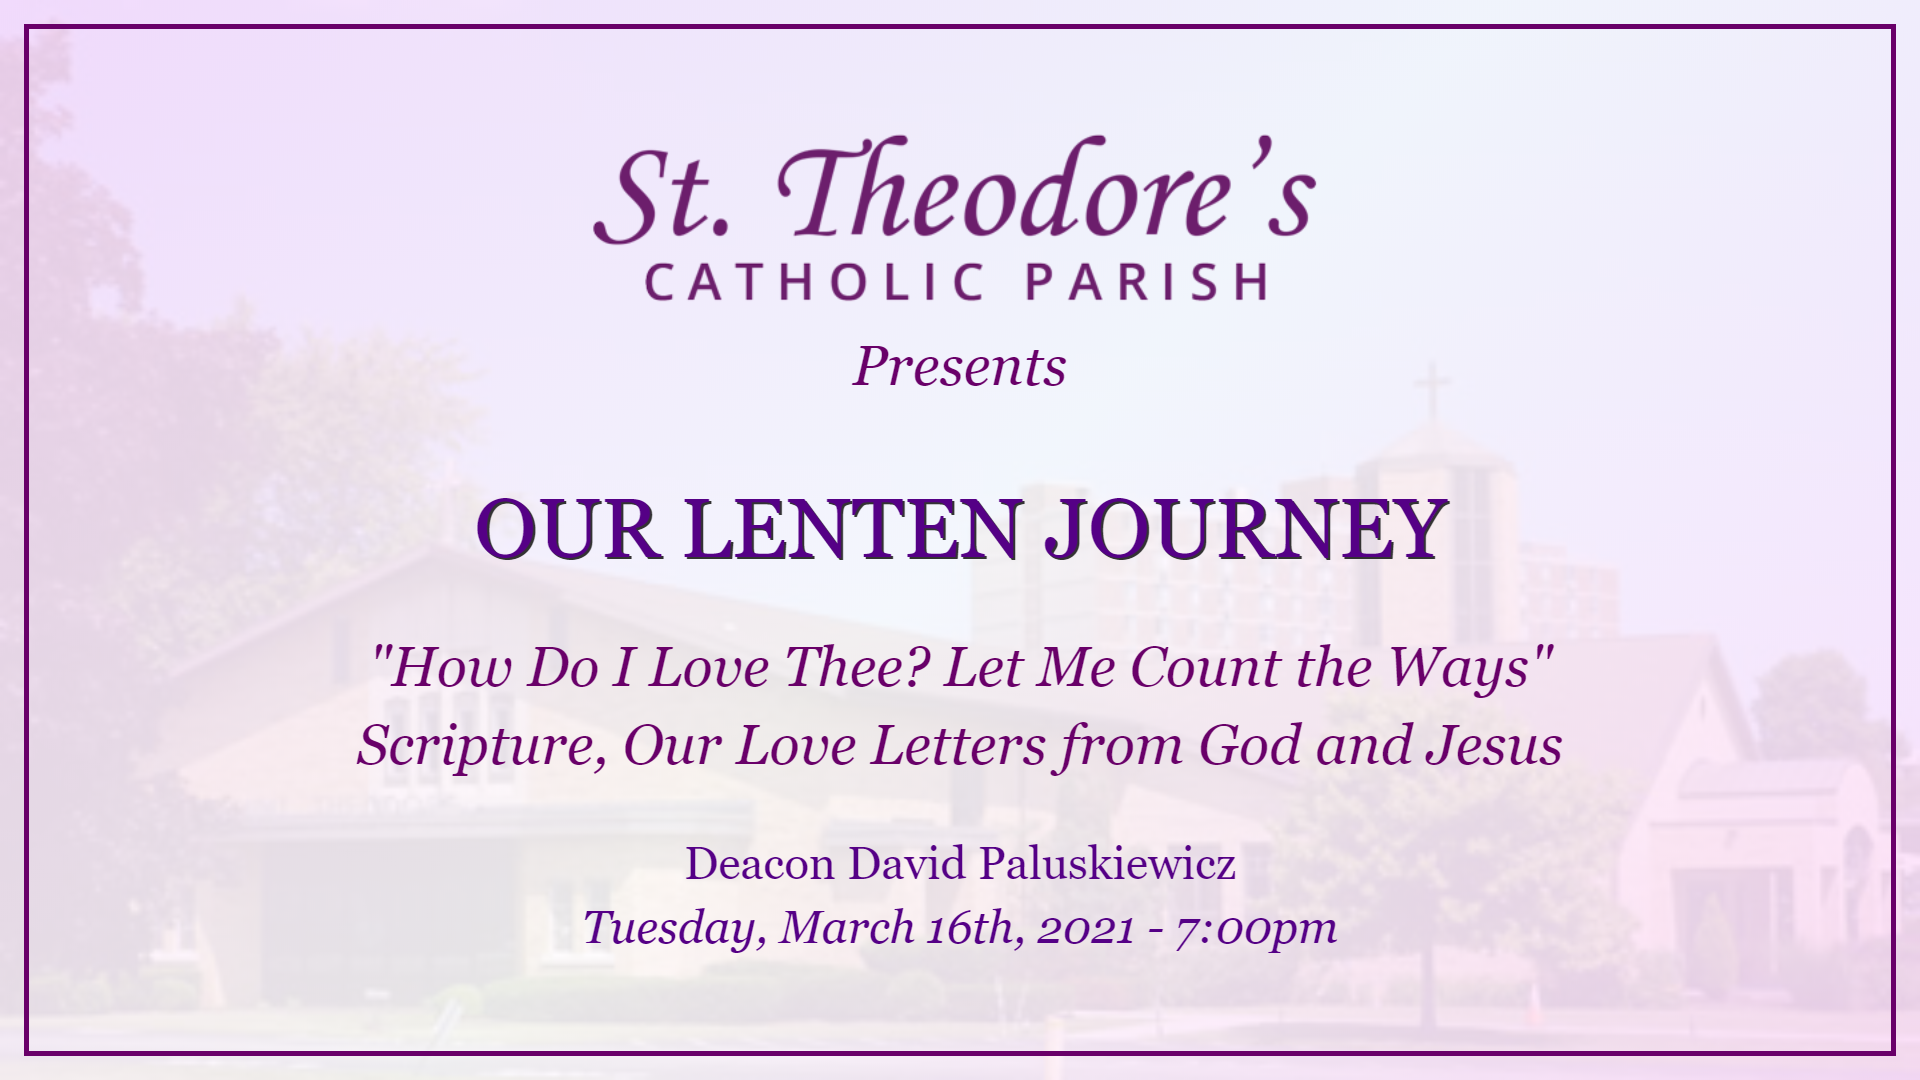
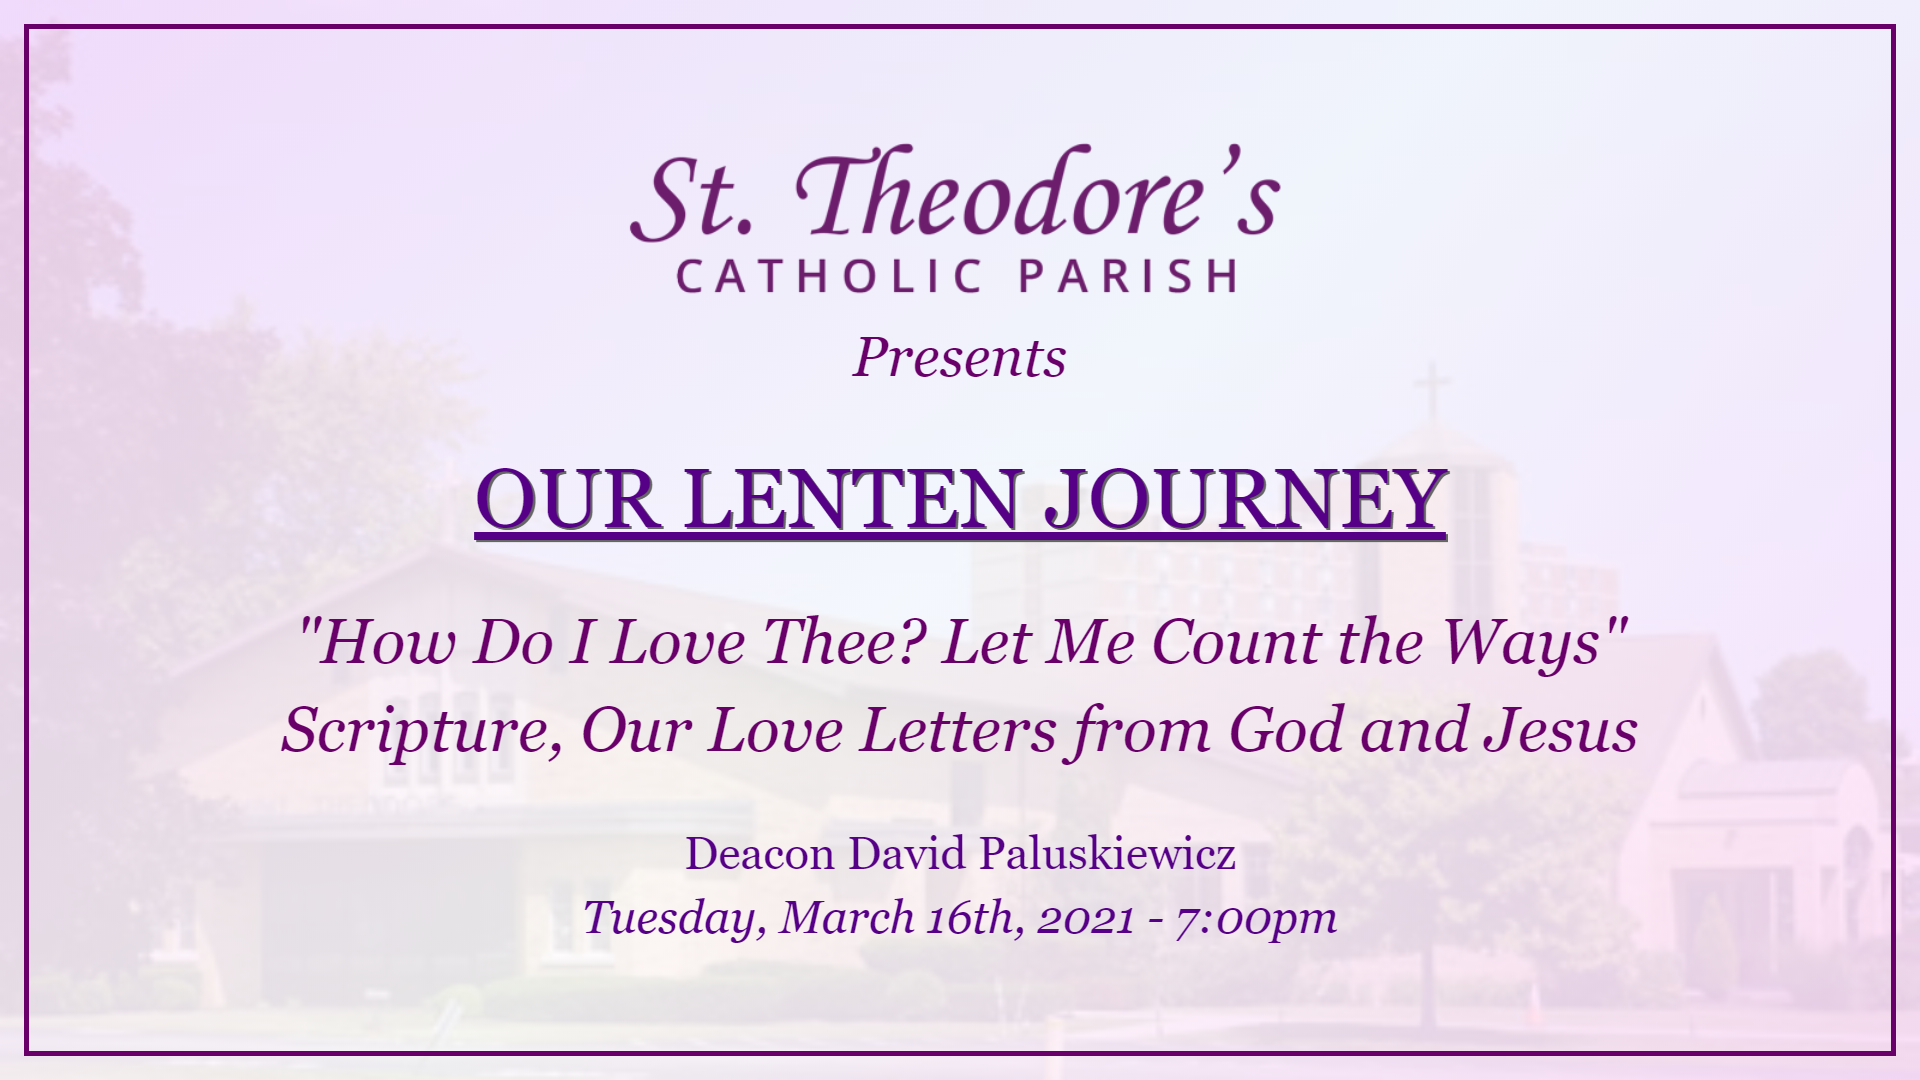
Updated styles.

diff --git a/styles.css b/styles.css
@@ -7,7 +7,7 @@
   --clr-primary-text: white;
   --clr-accent: #550086;
   --clr-accent-text: #white;
-  --clr-accent-text-shadow: #333;
+  --clr-accent-text-shadow: #666;
   --clr-bg: linear-gradient(135deg, #fffedf, #fffdf1, #fffedf);
   --clr-bg: linear-gradient(135deg, #ffe0ff, #fffdff, #ffe0ff);
   --clr-bullet: #884d00;
@@ -15,7 +15,9 @@
   --fs-400: 1em;
   --fs-500: 1.3em;
   --fs-600: 1.6em;
-  --fs-700: 2.4em;
+  --fs-700: 1.8em;
+  --fs-800: 2em;
+  --fs-900: 2.4em;
   --ff-main: Arial, Helvetica, sans-serif;
   --ff-main: 'Libre Baskerville', Georgia, 'Times New Roman', Times, serif;
   --ff-title: Maitree, Georgia, 'Times New Roman', Times, serif;
@@ -28,7 +30,7 @@
   --width-border: 0.15em;
   --width-image-border: 0.5em;
   --min-logo-title-width: 14rem;
-  --max-logo-title-width: 50rem;
+  --max-logo-title-width: 45rem;
   --box-shadow-h-offset: 0.25em;
   --box-shadow-v-offset: 0.25em;
   --box-shadow-spread: 0.5em;
@@ -186,7 +188,7 @@ b {
 }
 
 .title-page__header {
-  margin-bottom: var(--spacer);
+  margin-bottom: calc(var(--spacer) * 2);
 }
 
 .title-page__logo {
@@ -203,22 +205,30 @@ b {
   color: var(--clr-primary);
   font-size: var(--fs-600);
   font-style: italic;
-  margin-bottom: var(--padding-bg);
 }
 
 .title-page__title {
-  font-size: var(--fs-700);
+  font-size: var(--fs-900);
   color: var(--clr-accent);
   text-shadow: 0.025em 0.025em var(--clr-accent-text-shadow);
+  text-decoration: underline;
+  text-transform: uppercase;
   line-height: 1.2;
   margin-bottom: var(--padding-bg);
 }
 
 .title-page__subtitle {
   color: var(--clr-primary);
-  font-size: var(--fs-600);
   font-style: italic;
   margin-bottom: var(--padding-bg);
+}
+
+.title-page__subtitle > * {
+  font-size: var(--fs-700);
+}
+
+.title-page__subtitle [small] {
+  font-size: var(--fs-700);
 }
 
 .title-page__date {

diff --git a/styles.scss b/styles.scss
@@ -10,7 +10,7 @@
     --clr-primary-text: white;
     --clr-accent: #550086;
     --clr-accent-text: #white;
-    --clr-accent-text-shadow: #333;
+    --clr-accent-text-shadow: #666;
     --clr-bg: linear-gradient(135deg, #fffedf, #fffdf1, #fffedf);
     --clr-bg: linear-gradient(135deg, #ffe0ff, #fffdff, #ffe0ff);
     --clr-bullet: #884d00;
@@ -20,7 +20,8 @@
     --fs-400: 1em;
     --fs-500: 1.3em;
     --fs-600: 1.6em;
-    --fs-700: 2.4em;
+    --fs-700: 1.8em;
+    --fs-800: 2.4em;
 
     // FONT FAMILIES
     --ff-main: Arial, Helvetica, sans-serif;
@@ -38,7 +39,7 @@
     --width-image-border: 0.5em;
 
     --min-logo-title-width: 14rem;
-    --max-logo-title-width: 50rem;
+    --max-logo-title-width: 45rem;
 
     --box-shadow-h-offset: 0.25em;
     --box-shadow-v-offset: 0.25em;
@@ -162,10 +163,9 @@ b {
 
 .title-page {
     text-align: center;
-    // justify-content: space-evenly;
 
     &__header {
-        margin-bottom: var(--spacer);
+        margin-bottom: calc(var(--spacer) * 2);
     }
 
     &__logo {
@@ -181,22 +181,23 @@ b {
         color: var(--clr-primary);
         font-size: var(--fs-600);
         font-style: italic;
-        margin-bottom: var(--padding-bg);
     }
 
     &__title {
-        font-size: var(--fs-700);
+        font-size: var(--fs-800);
         color: var(--clr-accent);
         text-shadow: 0.025em 0.025em var(--clr-accent-text-shadow);
+        text-decoration: underline;
+        text-transform: uppercase;
         line-height: 1.2;
         margin-bottom: var(--padding-bg);
     }
 
     &__subtitle {
         color: var(--clr-primary);
-        font-size: var(--fs-600);
         font-style: italic;
         margin-bottom: var(--padding-bg);
+        font-size: var(--fs-700);
     }
 
     &__date {

diff --git a/sister-kate/title.html b/sister-kate/title.html
@@ -14,10 +14,11 @@
             <div class="title-page__logo"><img src="../images/sttheodores_header.png" /></div>
             <div class="title-page__presents">Presents</div>
         </div>
-        <div class="title-page__title">OUR LENTEN JOURNEY</div>
+        <div class="title-page__title">Our Lenten Journey</div>
         <div class="title-page__subtitle">
             <p>Waiting</p>
-            <p>"Spiritual Transformation Happens in the Waiting Room" - Pete Wilson</p>
+            <p>"Spiritual Transformation Happens in the Waiting Room"</p>
+            <p>- Pete Wilson</p>
         </div>
         <div class="title-page__speaker">Sister Kate Kanick RSM</div>
         <div class="title-page__date">Thursday, March 18th, 2021 - 7:00pm</div>

diff --git a/deacon-dave/title.html b/deacon-dave/title.html
@@ -14,7 +14,7 @@
             <div class="title-page__logo"><img src="../images/sttheodores_header.png" /></div>
             <div class="title-page__presents">Presents</div>
         </div>
-        <div class="title-page__title">OUR LENTEN JOURNEY</div>
+        <div class="title-page__title">Our Lenten Journey</div>
         <div class="title-page__subtitle">
             <p>"How Do I Love Thee? Let Me Count the Ways"</p>
             <p>Scripture, Our Love Letters from God and Jesus</p>

diff --git a/deacon-dennis/title.html b/deacon-dennis/title.html
@@ -14,7 +14,7 @@
             <div class="title-page__logo"><img src="../images/sttheodores_header.png" /></div>
             <div class="title-page__presents">Presents</div>
         </div>
-        <div class="title-page__title">OUR LENTEN JOURNEY</div>
+        <div class="title-page__title">Our Lenten Journey</div>
         <div class="title-page__subtitle">
             <p>Discipleship</p>
         </div>
